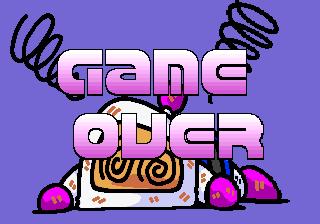
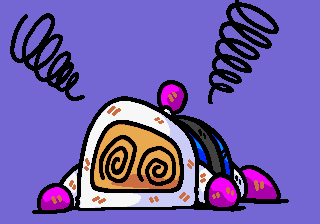
GameOver Anim

diff --git a/Bomberman Project/Project_5_Solution/Source/ModuleGameOver.h b/Bomberman Project/Project_5_Solution/Source/ModuleGameOver.h
@@ -38,8 +38,46 @@ public:
 	SDL_Texture* gameover_png = nullptr;
 
 	SDL_Texture* letter = nullptr;
-	Animation* LettersAnimation = nullptr;
-	Animation AnimLetters;
+	Animation* LettersAnimationG = nullptr;
+	Animation* LettersAnimationA = nullptr;
+	Animation* LettersAnimationM = nullptr;
+	Animation* LettersAnimationE = nullptr;
+	Animation* LettersAnimationO = nullptr;
+	Animation* LettersAnimationV = nullptr;
+	Animation* LettersAnimationE2 = nullptr;
+	Animation* LettersAnimationR = nullptr;
+	Animation AnimLettersG;
+	Animation AnimLettersA;
+	Animation AnimLettersM;
+	Animation AnimLettersE;
+	Animation AnimLettersO;
+	Animation AnimLettersV;
+	Animation AnimLettersE2;
+	Animation AnimLettersR;
+	int targetPosG = 49;
+	int targetPosA = 49;
+	int targetPosM = 49;
+	int targetPosE = 49;
+	int targetPosO = 113;
+	int targetPosV = 113;
+	int targetPosE2 = 113;
+	int targetPosR = 113;
+	bool moveLettersG = true;
+	bool moveLettersA = true;
+	bool moveLettersM = true;
+	bool moveLettersE = true;
+	bool moveLettersO = true;
+	bool moveLettersV = true;
+	bool moveLettersE2 = true;
+	bool moveLettersR = true;
+	int lettersPosG = -46;
+	int lettersPosA = -46;
+	int lettersPosM = -46;
+	int lettersPosE = -46;
+	int lettersPosO = -46;
+	int lettersPosV = -46;
+	int lettersPosE2 = -46;
+	int lettersPosR = -46;
 
 	bool LetterAOnPos;
 

diff --git a/Bomberman Project/Project_5_Solution/Source/ModuleLose.cpp b/Bomberman Project/Project_5_Solution/Source/ModuleLose.cpp
@@ -14,6 +14,7 @@
 #pragma comment( lib, "SDL_mixer/libx86/SDL2_mixer.lib" )
 #include "ModuleLose.h"
 #include "ModuleMenu.h"
+#include "SceneIntro.h"
 
 ModuleLose::ModuleLose(bool startEnabled) : Module(startEnabled)
 {
@@ -47,7 +48,7 @@ bool ModuleLose::Start()
 {
 	LOG("Loading background assets");
 	bool ret = true;
-	App->score->Disable();
+	App->sceneIntro->Disable();
 	currentAnimation = &AnimLose;
 	SpriteSheetOP_png = App->textures->Load("Assets/SpriteSheetOP.png");
 	App->audio->PlayMusic("Assets/audio/19_Lose.ogg", 1.0f);
